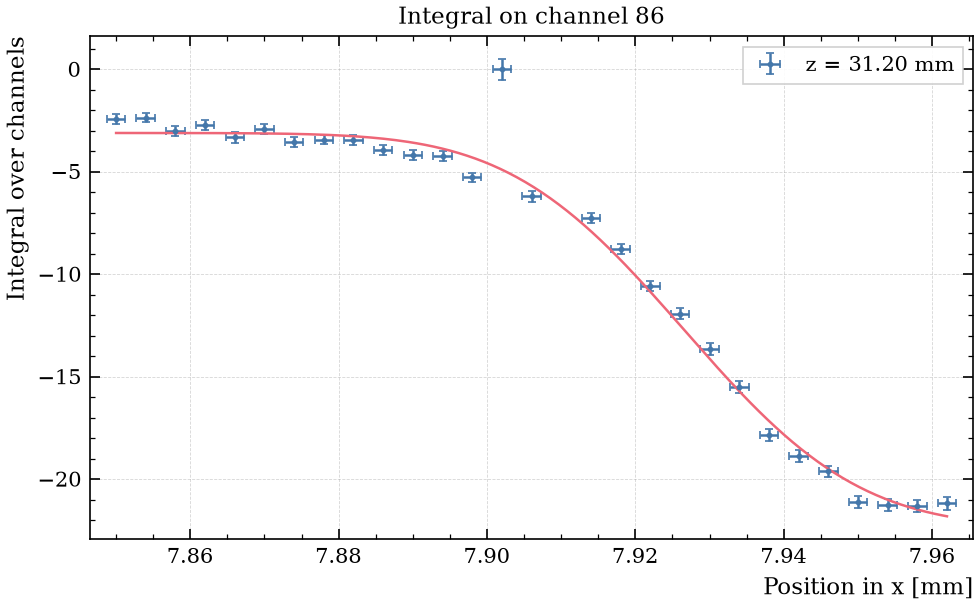
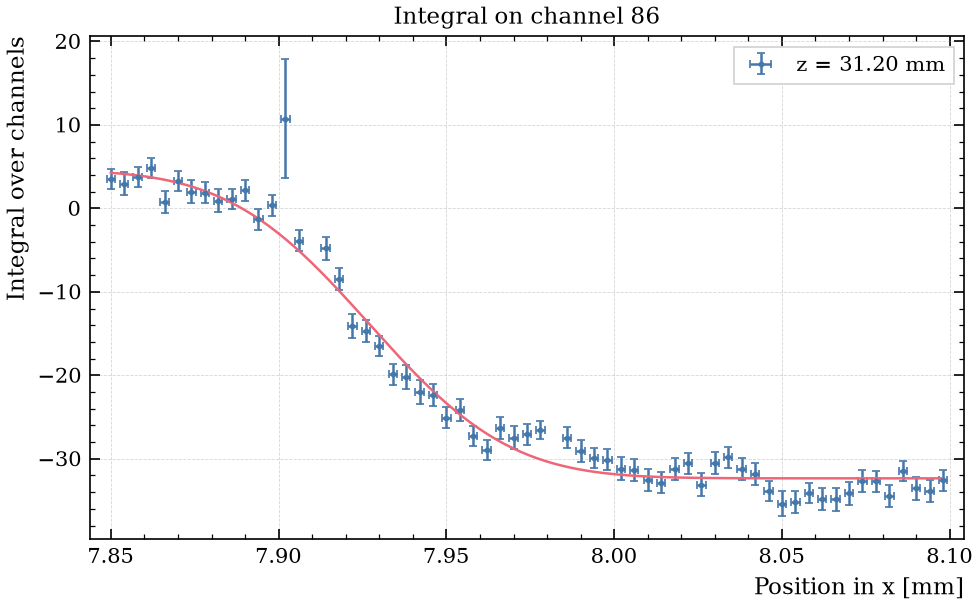
ana

diff --git a/fits.py b/fits.py
@@ -34,7 +34,7 @@ def beam_width(z, w0, z0, zr):
     return w0 * np.sqrt(1 + ((z - z0) / zr) ** 2)
 
 
-def fit_beam(z, sig, err, zerr, k=3):
+def fit_beam(z, sig, err, zerr, k=3, maxfev=10000):
     """Fit beam_width to the widths sig(z) with errors on both axes and one round of outlier rejection.
 
     Returns popt = (w0, z0, zr) and its covariance. Points further than k robust sigma from the first
@@ -45,13 +45,13 @@ def fit_beam(z, sig, err, zerr, k=3):
     i = np.argmin(sig)
     p0 = [sig[i], z[i], span / 2]
     bounds = ([0, z.min(), 1e-3 * span], [np.inf, z.max(), 100 * span])
-    popt, _ = curve_fit_xerr(beam_width, z, sig, err, zerr, p0=p0, bounds=bounds, maxfev=10000)
+    popt, _ = curve_fit_xerr(beam_width, z, sig, err, zerr, p0=p0, bounds=bounds, maxfev=maxfev)
     res = sig - beam_width(z, *popt)
     mad = np.median(np.abs(res - np.median(res)))
     keep = np.abs(res) < k * 1.4826 * mad if mad > 0 else np.ones(z.size, dtype=bool)
     if keep.sum() < 4:   # 3 parameters, do not throw away what the fit needs
         keep = np.ones(z.size, dtype=bool)
-    return curve_fit_xerr(beam_width, z[keep], sig[keep], err[keep], zerr, p0=popt, bounds=bounds, maxfev=10000)
+    return curve_fit_xerr(beam_width, z[keep], sig[keep], err[keep], zerr, p0=popt, bounds=bounds, maxfev=maxfev)
 
 
 def polyfit_xerr(x, y, yerr, xerr, deg=2, n_iter=2):

diff --git a/knife-edge.py b/knife-edge.py
@@ -43,10 +43,6 @@ class KnifeEdge(BaseAnalysis):
             xs = adc_x.index.to_numpy()[ok]
             ys = adc_x[z].to_numpy()[ok]
             es = err_x[z].reindex(adc_x.index).to_numpy()[ok]
-            argmin = ys.argmin()+2
-            xs = xs[:argmin]
-            ys = ys[:argmin]
-            es = es[:argmin]
             ax.errorbar(xs, ys, es, xerr=self.cfg.xerr, fmt="o", ms=2, label=f"z = {z:.2f} mm")
             try:
                 if xs.size < 6:
@@ -106,7 +102,8 @@ class KnifeEdge(BaseAnalysis):
             with warnings.catch_warnings():
                 warnings.simplefilter("error", RuntimeWarning)
                 warnings.simplefilter("error", OptimizeWarning)
-                popt_k, cov_k = fit_beam(zs_g, sig_g, err_g, self.cfg.zerr)
+                maxfev = 10000
+                popt_k, cov_k = fit_beam(zs_g, sig_g, err_g, self.cfg.zerr, maxfev=maxfev)
                 w0, z0, zr = popt_k
                 e_w0, e_z0, e_zr = np.sqrt(np.diag(cov_k))
                 zmins["Knife-edge"] = (z0, e_z0)

diff --git a/x-scan.py b/x-scan.py
@@ -18,8 +18,9 @@ from plot_helpers import clean_adc, plot_adc, mark_xerr
 
 
 class XScan(BaseAnalysis):
+    DEFAULTS = {**BaseAnalysis.DEFAULTS, "update_config": False,}
     # plot() writes ch_to_x to the config, so a change of it must not count as a new setting here
-    PLOT_KEYS = BaseAnalysis.PLOT_KEYS + ("ch_to_x",)
+    PLOT_KEYS = BaseAnalysis.PLOT_KEYS + ("ch_to_x","update_config",)
 
     # Contains the data per position basically
     def plot(self) -> None:
@@ -94,7 +95,8 @@ class XScan(BaseAnalysis):
                 break
 
         # Save the mapping in the config, other scans can use it as cfg.ch_to_x
-        self.update_config(ch_to_x=ch_to_x)
+        if self.cfg.update_config:
+            self.update_config(ch_to_x=ch_to_x)
 
         fig, ax = plt.subplots(1, 1)
         for ch in active:

diff --git a/base_analysis.py b/base_analysis.py
@@ -187,8 +187,7 @@ class BaseAnalysis(ABC):
 
         # Integral: sum over the channels in the window for each trigger ("run" in the file), then the
         # mean over the triggers. A plain array, since pandas gives NA and not NaN for a missing value.
-        # window = df["channel"].between(self.cfg.chmin, self.cfg.chmax)
-        window = df["channel"].isin([86])
+        window = df["channel"].between(self.cfg.chmin, self.cfg.chmax)
         per_trigger = df[window].groupby("run")["adc_clean"].sum().to_numpy(dtype=float, na_value=np.nan)
         n = per_trigger.size
         integral = {"value": per_trigger.mean() if n else np.nan,
